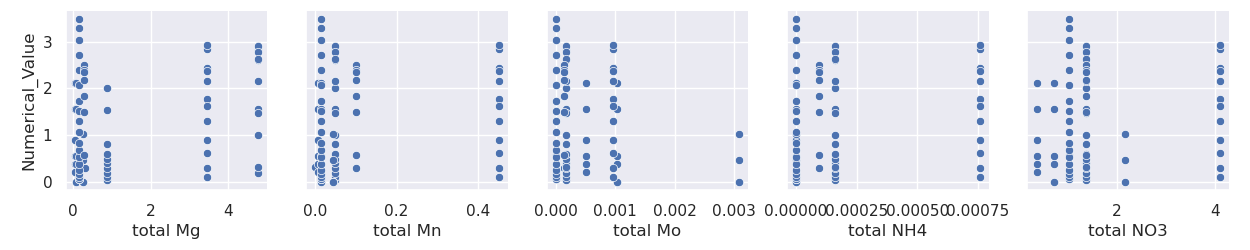
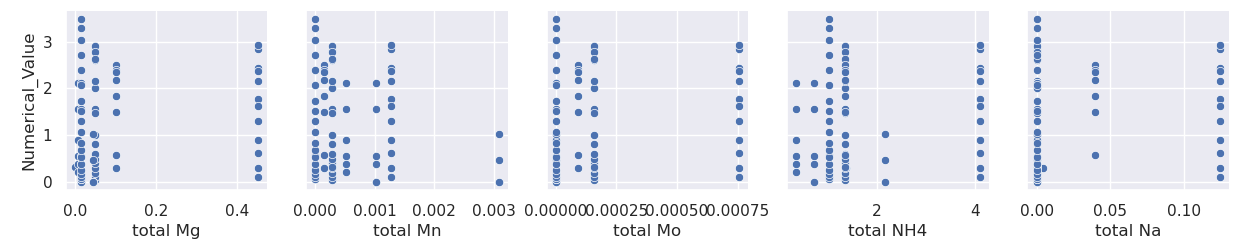
added medium composition checker

diff --git a/mediumComposition.py b/mediumComposition.py
@@ -71,12 +71,12 @@ def getStochiometry(element, formula):
 #removes ion name from component name
 #removes ion amount from orig. component
 #returns total, adjusted component name and value
-def getOneIon(total,total_name,comp,orig_comp,symbol,name,formula,value,mask,m_original,mass):
+def getOneIon(total,total_name,comp,orig_comp,symbol,name,formula,value,mask,m_original,mass,orig_value):
 	if re.search(re.compile(name,re.IGNORECASE), comp):
 		n=getStochiometry(symbol, formula)
 		if n: 
-			total[total_name][mask]+=value*n*mass/m_original
-			value-=value*n*mass/m_original
+			total[total_name][mask]+=orig_value*n*mass/m_original
+			value-=orig_value*n*mass/m_original
 			comp=re.sub(re.compile(f"\s*[A-z]*{name}[A-z]*\(*i*\)*", re.IGNORECASE),"", comp).strip()
 	return total, comp, value
 
@@ -88,6 +88,7 @@ def getIons(m_original, medium, row, total):
 	orig_comp=row["Component"]
 	formula=row["Formula"]
 	value=row["Value_g_l"]
+	orig_value=row["Value_g_l"]
 	total_names=total.columns[1:]
 	symbols=['B', 'Ca', 'Cl', 'Co', 'Cu', 'Fe', 'I', 'K', 'Mg', 'Mn', 'Mo',
 		'N', 'N', 'Na', 'Ni', 'P', 'S', 'Se', 'Zn']
@@ -98,14 +99,12 @@ def getIons(m_original, medium, row, total):
 	#molar masses in g/mol
 	masses=[m_BO3, m_Ca, m_Cl, m_Co, m_Cu, m_Fe, m_I, m_K, m_Mg, m_Mn, m_Mo,
 		m_NH4, m_NO3, m_Na, m_Ni, m_PO4, m_SO4, m_Se, m_Zn]
-	#check for expression in medium component
-	#if re.search(re.compile(expr, re.IGNORECASE), comp):
-
+	
 	mask=total["Medium_uniqueID"]==medium
 	#extract concentration for ions
 	for i in range(len(masses)):
 		total, comp, value=getOneIon(total,total_names[i],comp,orig_comp,symbols[i],
-			names[i],formula,value,mask,m_original,masses[i])
+			names[i],formula,value,mask,m_original,masses[i],orig_value)
 		#if some components are nan checker
 		#if value in [np.nan]:
 		#	print(orig_comp,comp)

diff --git a/analysis.py b/analysis.py
@@ -5,21 +5,15 @@ import seaborn as sns
 import pymysql, csv, re
 from sqlalchemy import create_engine
 import pickle, math
-from sklearn.preprocessing import StandardScaler
-from sklearn.decomposition import PCA
-from sklearn.impute import SimpleImputer
 
 #imports from other files
 from mediumConversion import mediumConversion
-import config
 
 #pull and process data from database
 #returns glucose uptake, medium and strain data
-def analysis(clean_unit=False, full=False):
+def analysis(path, clean_unit=False, full=False):
 
-	#create mysql connection
-	path=f"mysql+pymysql://{config.USER}:{config.PASSWORD}@{config.HOST}/{config.DB_NAME}"
-	
+	#create mysql connection	
 	with create_engine(path).connect() as connection:
 		#disable ONLY_FULL_GROUP_BY
 		connection.execute("""set sql_mode=(select replace(@@sql_mode,
@@ -249,15 +243,3 @@ def multivalueCols(df):
 				subs[val]=i
 			df[col]=df[col].replace(subs)
 	return df
-
-
-def feature_pca(features, n_components="mle"):
-	features=multivalueCols(features)
-	x=features.iloc[:,1:].values
-	y=features.iloc[:,0].values
-	x = StandardScaler().fit_transform(x)
-	imp = SimpleImputer(missing_values=np.nan, strategy='most_frequent')
-	x=imp.fit_transform(x)
-	pca=PCA(n_components=n_components)
-	principalComponents = pca.fit_transform(x)
-	return principalComponents

diff --git a/test.py b/test.py
@@ -1,0 +1,30 @@
+import numpy as np
+import pandas as pd
+
+from mediumComposition import getIons
+from mediumConversion import mediumConversion
+
+
+def testIonCount():
+	print("TEST ION COUNT")
+	total_quantities=['Medium_uniqueID','total BO3', 'total Ca','total Cl',
+		'total Co', 'total Cu', 'total Fe', "total I",'total K', 'total Mg', 'total Mn',
+		'total Mo', 'total NH4', 'total NO3', 'total Na',
+		'total Ni', 'total PO4', 'total SO4', 'total Se', 'total Zn']
+	total=pd.DataFrame(columns=total_quantities)
+	name="EXP0001234"
+	total["Medium_uniqueID"]=[name]
+	total=total.fillna(0)
+	df=pd.DataFrame({"Component":["Ferrous ammonium sulfate hexahydrate"],"Formula":["FeH20N2O14S2"],"Value_g_l":[2]})
+	row=df.iloc[0]
+	molecular_weight=392.1
+	row, total=getIons(molecular_weight, name, row, total)
+	#expected in total: Fe 0.28483, NH4 0.18403, SO4 0.98006
+	#row empty
+	print(row)
+	print("expected: empty")
+	print(total.loc[:,(total != 0).any(axis=0)])
+	print("expected: Fe 0.284825,  NH4 0.184035,  SO4 0.980056\n")
+
+if __name__=="__main__":
+	testIonCount()

diff --git a/main.py b/main.py
@@ -2,16 +2,19 @@
 #analysis routines for YCMDB database
 #implemented: glucose uptake data
 
-from analysis import analysis, feature_matrix, pairplot, feature_pca
+import config
+from analysis import analysis, feature_matrix, pairplot
+
+#sql connection
+path=f"mysql+pymysql://{config.USER}:{config.PASSWORD}@{config.HOST}/{config.DB_NAME}"
 
 #run analysis
-data, strain_matrix, media_matrix=analysis(clean_unit=True,full=False)
+data, strain_matrix, media_matrix=analysis(path,clean_unit=True,full=True)
 
 features=feature_matrix(data, media_matrix, strain_matrix)
 
-#pairplot(features)
+pairplot(features)
 
-feature_pca(features)
 
 #if required: save data as csv
 #with open("analysis.csv", "w+") as file:

diff --git a/mediumConversion.py b/mediumConversion.py
@@ -246,9 +246,9 @@ def mediumConversion(con):
 	outmatrix=outmatrix.reset_index()
 
 	#sum ions	
-	total_quantities=['Medium_uniqueID','total BO3', 'total Cl',
+	total_quantities=['Medium_uniqueID','total BO3', 'total Ca','total Cl',
 		'total Co', 'total Cu', 'total Fe', "total I",'total K', 'total Mg', 'total Mn',
-		'total Mo', 'total NH4', 'total NO3', 'total Na','total Ca',
+		'total Mo', 'total NH4', 'total NO3', 'total Na',
 		'total Ni', 'total PO4', 'total SO4', 'total Se', 'total Zn']
 	total=pd.DataFrame(columns=total_quantities)
 	total["Medium_uniqueID"]=outmatrix["Medium_uniqueID"].unique()
